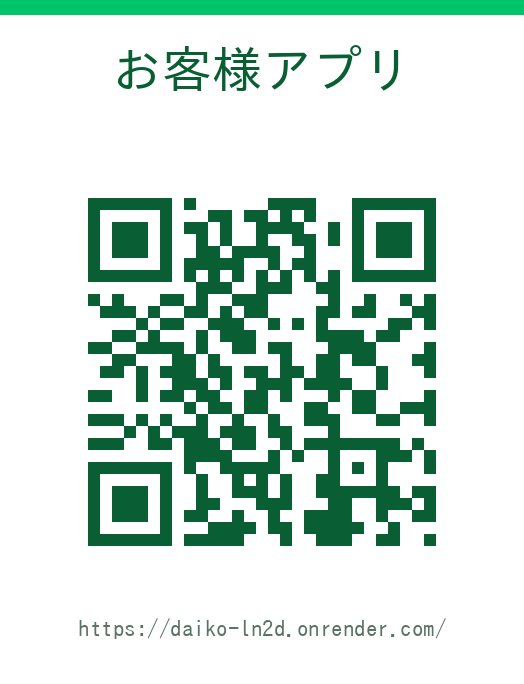
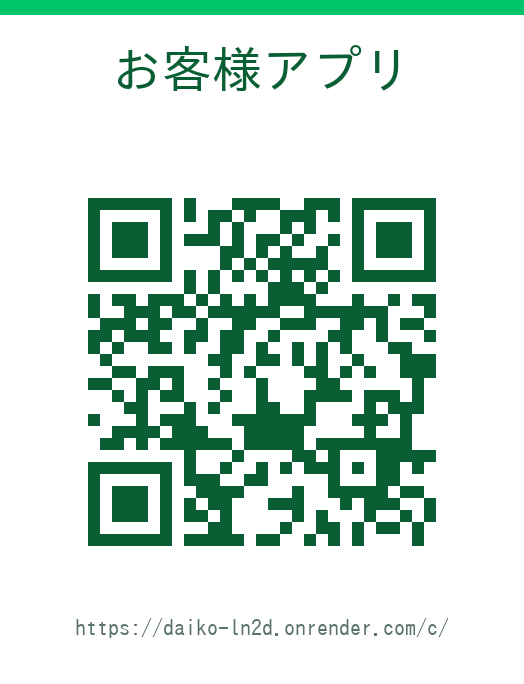
Android 3アプリ完全分離：お客様も独立scope /c/ へ（重なり解消）
- お客様アプリを / から /c/ 領域へ移設（customer scope=/c/）。これで
  お客様/ドライバー/管理の3スコープが互いに重ならず、Androidでアプリが
  入れ替わる不具合を解消。
- / は /c/ へリダイレクト、お客様ログインは /c/login・/c/verify に移設。
  旧URL(/、/auth/customer/login)は互換リダイレクト。
- manifest customer: start_url/scope=/c/。QRを /c/・/d/ で再生成。
- 既存の印刷済みQR(/driver 等)も自動リダイレクトで引き続き有効。

Claude-Session: https://claude.ai/code/session_01VVuqWRyhNDK7Zx8P4Ac34D

Changed region(s): [[0.1527, 0.2763, 0.855, 0.7982], [0.1221, 0.8904, 0.855, 0.9518]]

diff --git a/daiko/tests/test_flows.py b/daiko/tests/test_flows.py
@@ -8,7 +8,12 @@ def test_health(client):
 
 
 def test_landing(client):
+    # / はお客様アプリ領域 /c/ へリダイレクト
     r = client.get("/")
+    assert r.status_code == 302
+    assert "/c/" in r.headers["Location"]
+    # /c/（未ログイン）はランディングを表示
+    r = client.get("/c/", follow_redirects=True)
     assert r.status_code == 200
     assert "代行の窓口".encode() in r.data
 
@@ -20,12 +25,12 @@ def test_manifest_and_sw(client):
 
 def test_customer_sms_login_flow(client, app):
     # コード送信（console: 画面にコードが返る）
-    r = client.post("/auth/customer/login", data={"phone": "08099998888"})
+    r = client.post("/c/login", data={"phone": "08099998888"})
     assert r.status_code == 200
     with client.session_transaction() as sess:
         code = sess["_otp"]["code"]
     # コード検証 → プロフィールへリダイレクト（新規）
-    r = client.post("/auth/customer/verify", data={"phone": "08099998888", "code": code})
+    r = client.post("/c/verify", data={"phone": "08099998888", "code": code})
     assert r.status_code == 302
     with app.app_context():
         assert Customer.query.filter_by(phone="08099998888").first() is not None

diff --git a/daiko/blueprints/main.py b/daiko/blueprints/main.py
@@ -12,8 +12,8 @@ bp = Blueprint("main", __name__)
 
 @bp.route("/")
 def index():
-    """お客様専用トップ（入口を分離）."""
-    return render_template("landing.html", customer=current_customer())
+    """ルート → お客様アプリ領域 /c/ へ（各役割を独立scopeに分離）."""
+    return redirect(url_for("customer.home"))
 
 
 @bp.route("/driver")
@@ -44,6 +44,11 @@ def _legacy_admin_login():
     return redirect(url_for("auth.admin_login"))
 
 
+@bp.route("/auth/customer/login")
+def _legacy_customer_login():
+    return redirect(url_for("auth.customer_login"))
+
+
 @bp.route("/healthz")
 def healthz():
     return {"status": "ok"}, 200
@@ -62,7 +67,7 @@ def manifest(app_kind: str | None = None):
     # (表示名, start_url, scope, アイコンの接頭辞)
     # scope を役割ごとに分けることで Android でも「別アプリ」として個別インストールできる。
     apps = {
-        "customer": ("お客様の窓口", "/", "/", "icon"),
+        "customer": ("お客様の窓口", "/c/", "/c/", "icon"),
         "driver": ("ドライバーの窓口", "/d/", "/d/", "icon-driver"),
         "admin": ("管理者の窓口", "/admin/", "/admin/", "icon-admin"),
     }

diff --git a/daiko/blueprints/auth.py b/daiko/blueprints/auth.py
@@ -43,7 +43,7 @@ bp = Blueprint("auth", __name__)
 # ─────────────────────────────────────────────
 # お客様：電話番号 + SMS 認証コード（パスワード不要）
 # ─────────────────────────────────────────────
-@bp.route("/auth/customer/login", methods=["GET", "POST"])
+@bp.route("/c/login", methods=["GET", "POST"])
 def customer_login():
     if current_customer() is not None:
         return redirect(url_for("customer.home"))
@@ -62,7 +62,7 @@ def customer_login():
     return render_template("auth/customer_login.html")
 
 
-@bp.route("/auth/customer/verify", methods=["POST"])
+@bp.route("/c/verify", methods=["POST"])
 def customer_verify():
     phone = sms.normalize_phone(request.form.get("phone", ""))
     code = request.form.get("code", "")

diff --git a/daiko/blueprints/customer.py b/daiko/blueprints/customer.py
@@ -15,7 +15,7 @@ from flask import (
     url_for,
 )
 
-from ..auth import customer_required
+from ..auth import current_customer, customer_required
 from ..extensions import db
 from ..models import Entry, EntryStatus, Request, RequestStatus
 from ..services import matching
@@ -25,10 +25,13 @@ bp = Blueprint("customer", __name__, url_prefix="/c")
 
 
 @bp.route("/")
-@customer_required
 def home():
+    """お客様アプリのトップ。未ログインはランディング、ログイン済みはホーム."""
+    customer = current_customer()
+    if customer is None:
+        return render_template("landing.html", customer=None)
     active = (
-        g.customer.requests.filter(
+        customer.requests.filter(
             Request.status.notin_(
                 [RequestStatus.COMPLETED, RequestStatus.CANCELLED, RequestStatus.EXPIRED]
             )
